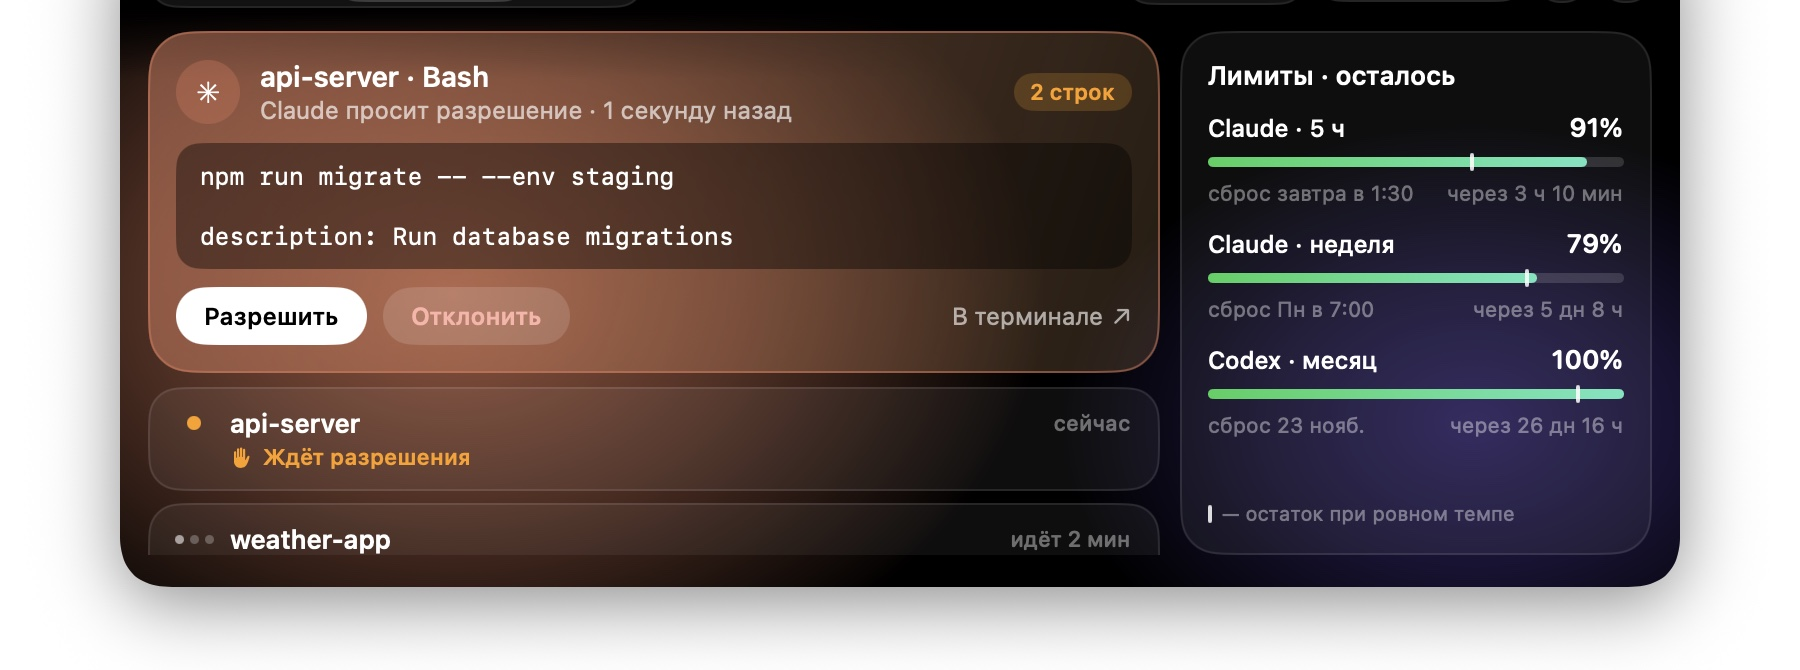
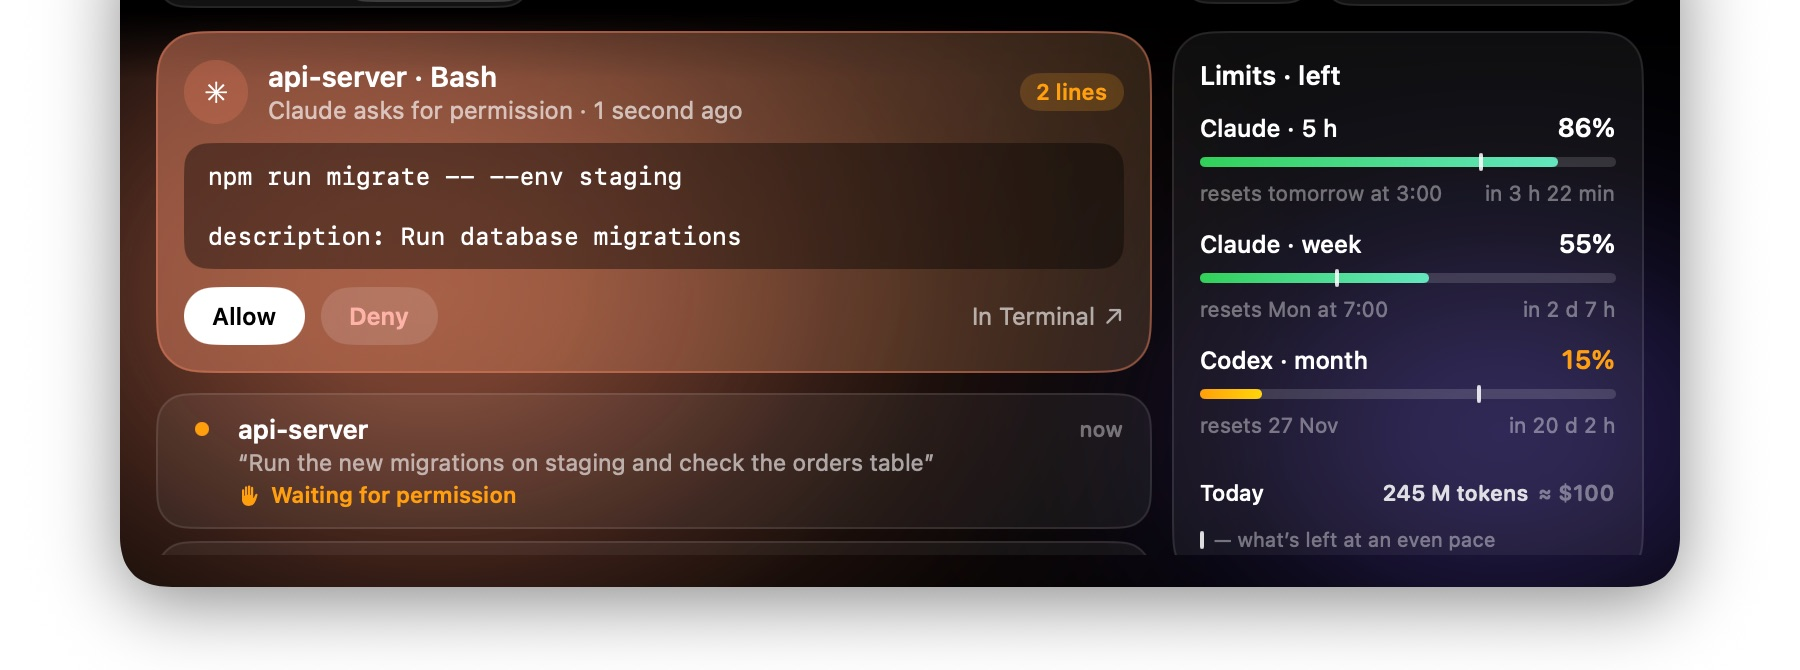
README: English screenshots (demo sessions), search and calculator images, languages, dictation sounds

diff --git a/README.md b/README.md
@@ -16,7 +16,7 @@ Claude Code and Codex agents, a search with a calculator, AI, dictation, clipboa
 
 </div>
 
-> The app interface is in Russian for now. Menu names below are given in English with the Russian label in brackets.
+> Nook speaks English and Russian and follows the system language. To change it: Settings → General → Language.
 
 ## Why
 
@@ -48,12 +48,14 @@ and speech recognition runs on your Mac.
 - Tokens and API-price cost per Claude session and for today (read from local transcripts).
 - A warning when one of your processes loads the Mac for minutes (a dev server an agent left running),
   with a button to end it.
-- ☕ Coffee: keeps the Mac awake while agents work overnight.
+- ☕ Caffeine: keeps the Mac awake while agents work overnight.
 
 ### Search
 
 Press ⌥Space (or record your own shortcut) and type. The search opens on the display you work on, and the app
 you pick opens there too.
+
+<p align="center"><img src="docs/images/search.jpg" alt="Search from the notch: an app, System Settings panes and window commands" width="820"></p>
 
 - Apps, System Settings panes and Nook's commands (timer, Pomodoro, coffee, keyboard lock…). A word typed in the
   wrong keyboard layout still works: `ыфа` finds Safari. What you open often moves up.
@@ -68,6 +70,8 @@ you pick opens there too.
 ### Calculator
 
 Results appear in the search as you type. Return copies the result, ⌘Return keeps calculating with it.
+
+<p align="center"><img src="docs/images/calculator.jpg" alt="10 eur to uah answered right in the search" width="820"></p>
 
 - Arithmetic and percentages: `10+10`, `450 + 20%`, `2^10`, `sqrt 25`.
 - Units: `5 km in miles`, `100 f to c`.
@@ -93,7 +97,8 @@ Results appear in the search as you type. Return copies the result, ⌘Return ke
   The language is detected automatically.
 - Two models: Accurate (about 630 MB) and Fast (about 220 MB, macOS 15 or later). The model downloads once from
   Hugging Face and is checked against pinned checksums. Audio is never saved or sent.
-- Off until you turn it on: Settings → Dictation (Диктовка).
+- Pick the start and end sounds, or none. Other sound goes down to 5 % while you speak and comes back after.
+- Off until you turn it on: Settings → Dictation.
 
 ### Windows
 
@@ -113,7 +118,7 @@ display, and restore — from the search or with your own shortcuts. One click s
 
 - ⌃⌘V: 300 items, pins, search, a filter (text, links, images, files) and text from images.
 - A keep time, and apps to ignore (Keychain Access and Passwords by default). Password-manager items are never saved.
-- "Paste the next one" (Вставить следующее из буфера) pastes a list item by item, in order.
+- "Paste the next one from the clipboard" pastes a list item by item, in order.
 
 ### Every day
 
@@ -129,9 +134,10 @@ display, and restore — from the search or with your own shortcuts. One click s
 
 ### Settings
 
-- A settings window: ⌘, or the menu bar icon → Settings… (Настройки…).
-- Panel (Панель): choose which tabs and buttons the header shows. The header uses the space that is left.
-- Privacy (Приватность) shows which permissions Nook has and opens the right page of System Settings.
+- A settings window: ⌘, or the menu bar icon → Settings….
+- Language: English or Russian, or the system's.
+- Panel: choose which tabs and buttons the header shows. The header uses the space that is left.
+- Privacy shows which permissions Nook has and opens the right page of System Settings.
 
 ## Install
 
@@ -171,8 +177,7 @@ macOS asks for a permission when you first use a feature that needs it.
 ## Updates
 
 Nook checks for a new version every 6 hours and installs it when the panel is closed. Check by hand:
-the menu bar icon → Check for Updates… (Проверить обновления…), or Settings → Updates (Обновления) → Check now
-(Проверить сейчас). Turn off: same page, Update automatically (Обновлять автоматически).
+the menu bar icon → Check for Updates…, or Settings → Updates → Check Now. Turn off: same page, Update automatically.
 
 ## Security and privacy
 
@@ -205,8 +210,7 @@ Nook is free. If it helps you, you can thank the author in USDT:
 - TRON (TRC-20): `TDQnp3XjR1yjFhDTxUfhgRAA9YuoitR9vd`
 - Ethereum (ERC-20): `0x64aF41413b60d36eBf0148eA303AC3087301b2e8`
 
-Send only USDT, and only on the network named next to the address. QR codes: the menu bar icon → Say Thanks…
-(Сказать спасибо…).
+Send only USDT, and only on the network named next to the address. QR codes: the menu bar icon → Say Thanks….
 
 ## Build from source
 
